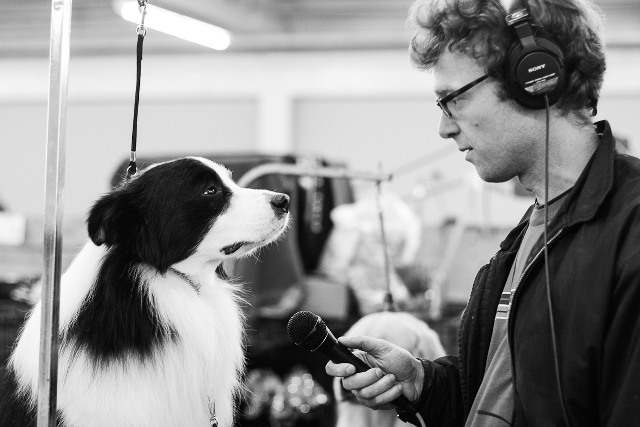
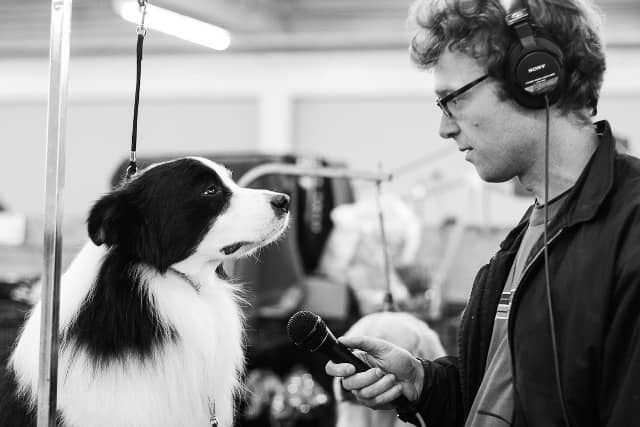
new tour dates and sponsor; compress assets

diff --git a/pages/live.md b/pages/live.md
@@ -10,7 +10,72 @@ exclude_header: true
 <div class='tour-photo-credit'>Photo Credit: <a href="http://www.vigfusson.com/">Gundi Vigfusson</a></div>
 
 <div class='tour-dates'>
-<p>We’re touring the East Coast again this October with our live show and lecture series. We’d love to come perform for you and talk about radio, journalism, and sound. <a href="#book_the_world_according_to_sound">Book us!</a></p>
+    <h3>Fall 2017 Tour</h3>
+    <div>We're touring again this October with our live show and lecture series.</div>
+    <div>
+        <div>
+            <span><b>October 10th</b></span>
+            <span>&mdash;</span>
+            <a href='https://bowerbird.ticketleap.com/world-according-to-sound/'>Bowerbird</a>
+            <span>&mdash;</span>
+            <span>Philadelphia, PA</span>
+        </div>
+        <div>
+            <span><b>October 13th</b></span>
+            <span>&mdash;</span>
+            <span>University of Detroit, Mercy</span>
+            <span>&mdash;</span>
+            <span>Detroit, MI</span>
+        </div>
+        <div>
+            <span><b>October 17th</b></span>
+            <span>&mdash;</span>
+            <a href='http://europe.wisc.edu/events/world-according-sound/'>Northwestern University</a>
+            <span>&mdash;</span>
+            <span>Evanston, IL</span>
+        </div>
+        <div>
+            <span><b>October 19th</b></span>
+            <span>&mdash;</span>
+            <a href='http://legacy.wbur.org/community/events/2017/09/19/the-world-according-to-sound-live'>Middlesex Lounge Sponsored by WBUR</a>
+            <span>&mdash;</span>
+            <span>Cambridge, MA</span>
+        </div>
+        <div>
+            <span><b>October 24th</b></span>
+            <span>&mdash;</span>
+            <a href='https://entrepreneurship.brown.edu/event/sound-ideas-close-listening-podcasting-new-radio/
+'>Brown University</a>
+            <span>&mdash;</span>
+            <span>Providence, RI</span>
+        </div>
+
+        <div>
+            <span><b>October 25th</b></span>
+            <span>&mdash;</span>
+            <a href='http://events.cornell.edu/event/cornell_media_studies_presents_the_world_according_to_sound'>Cornell University</a>
+            <span>&mdash;</span>
+            <span>Ithaca, NY</span>
+        </div>
+
+        <div>
+            <span><b>October 30th</b></span>
+            <span>&mdash;</span>
+            <span>The New School</span>
+            <span>&mdash;</span>
+            <span>New York, NY</span>
+        </div>
+
+        <div>
+            <span><b>November 2nd</b></span>
+            <span>&mdash;</span>
+            <span>University of Virginia</span>
+            <span>&mdash;</span>
+            <span>Charlottesville, VA</span>
+        </div>
+    </div>
+    <div>Thanks to Clair Brothers for providing us with some kick-ass speakers for the tour. You can learn more about their <a href='http://www.clairbrothers.com'>equipment here</a>.</div>
+    <img src="/assets/clairebrothers-logo.png">
 </div>
 
 <div class='tour-description'>
@@ -39,7 +104,7 @@ Sam Harnett is a reporter for KQED and a frequent contributor to Marketplace, an
 
 <div class='tour-description'>
 <h3>The Performance</h3>
-<p>For the live show we set up a ring of eight loudspeakers around the audience, and then we take the sounds from our radio show and move them all around the space. We do live narration, but we talk very little, just enough to tell you what the sound is and to give each one a bit of context. The sounds are mixed so that each speaker can be individually controlled, allowing us to move sound to different parts of the room. So a tennis ball can fly over your head from one side of the room to the other. Ants can scurry in and out of different speakers. And the cables of the Golden Gate Bridge can twang and thrum on all sides.</p> 
+<p>For the live show we set up a ring of eight loudspeakers around the audience, and then we take the sounds from our radio show and move them all around the space. We do live narration, but we talk very little, just enough to tell you what the sound is and to give each one a bit of context. The sounds are mixed so that each speaker can be individually controlled, allowing us to move sound to different parts of the room. So a tennis ball can fly over your head from one side of the room to the other. Ants can scurry in and out of different speakers. And the cables of the Golden Gate Bridge can twang and thrum on all sides.</p>
 
 <p>The show is about an hour long and everyone sits in the dark with eye masks that we provide. We normally perform for around 150 people at a time. The upper limit would be around 300 people. The ideal space is a squarish room with moveable seating. We arrange our eight, free-standing speakers in a square around the audience, and it is optimal to have at least five feet from the speaker to the nearest audience member. The only equipment we’d need from the venue is a PA system to do our live narration.</p>
 
